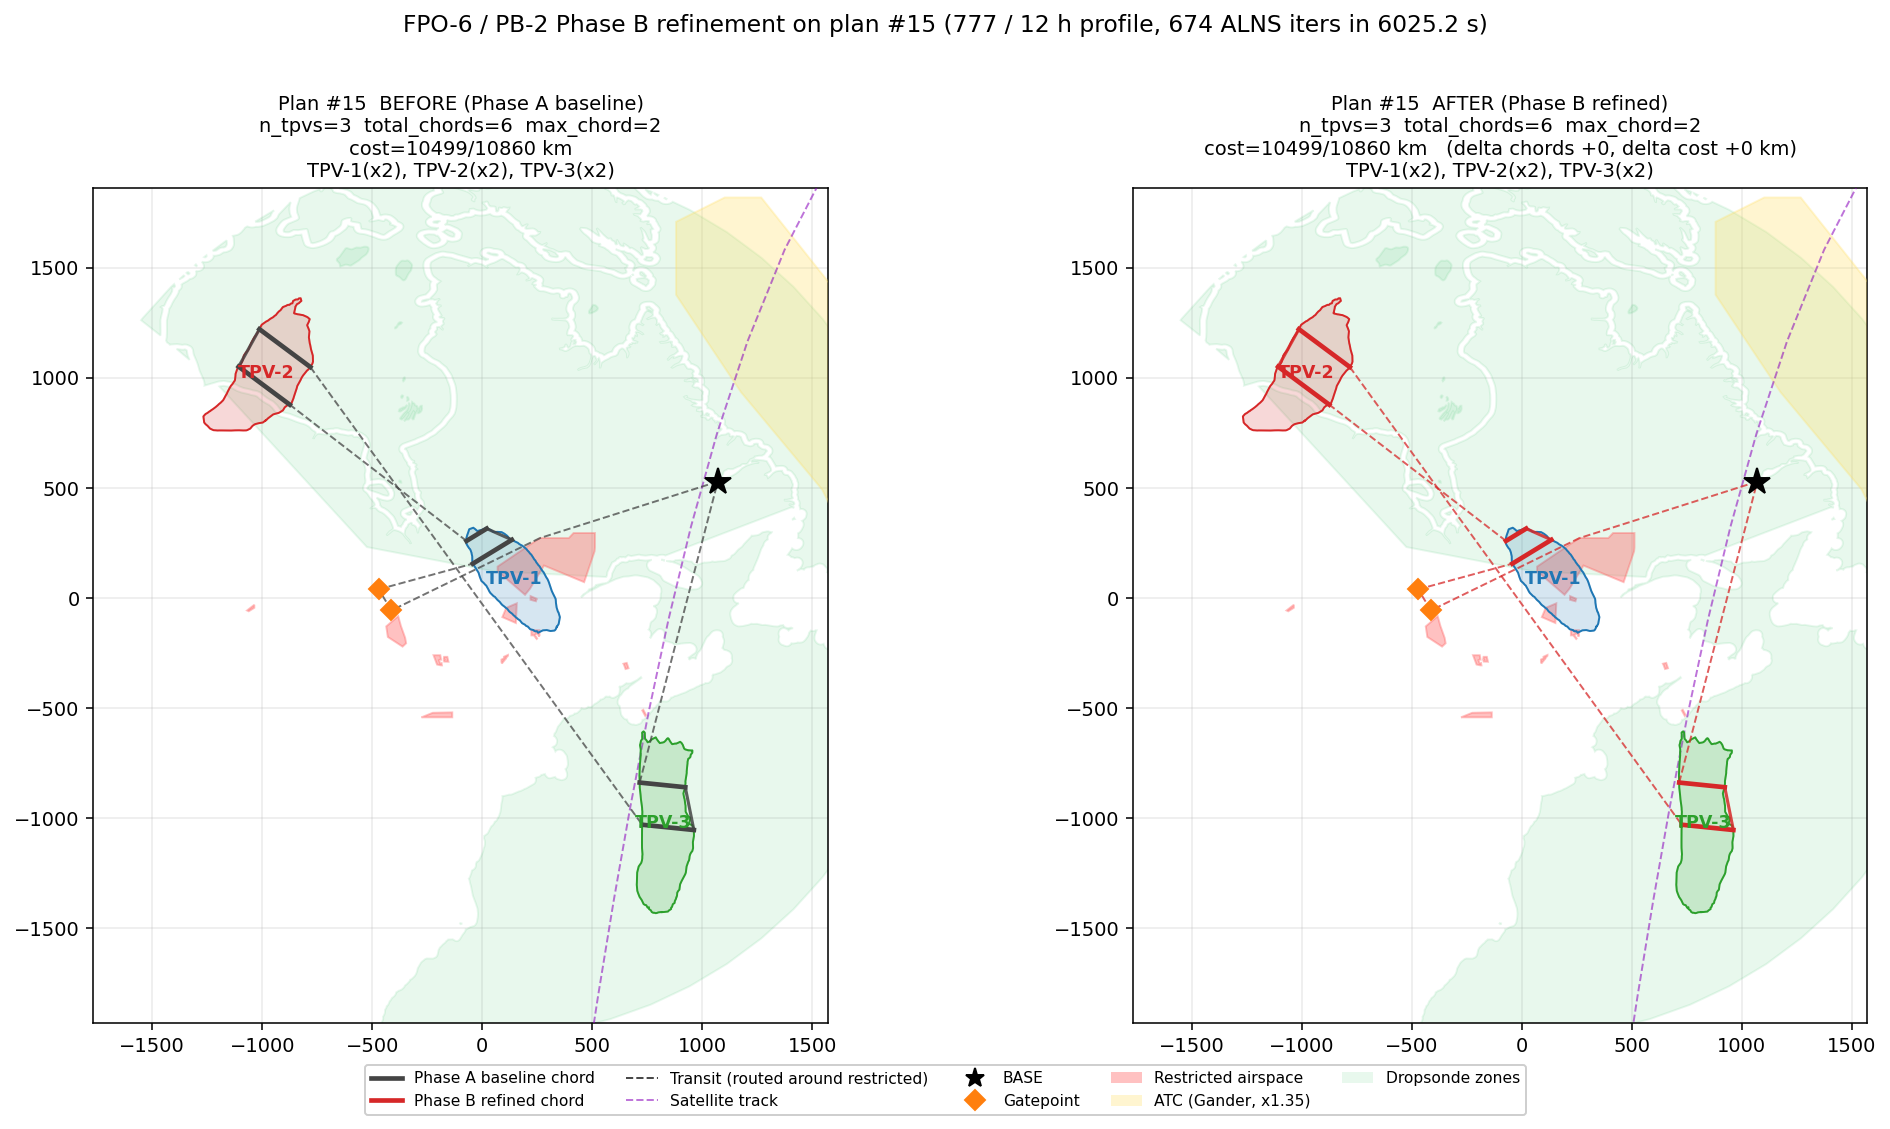
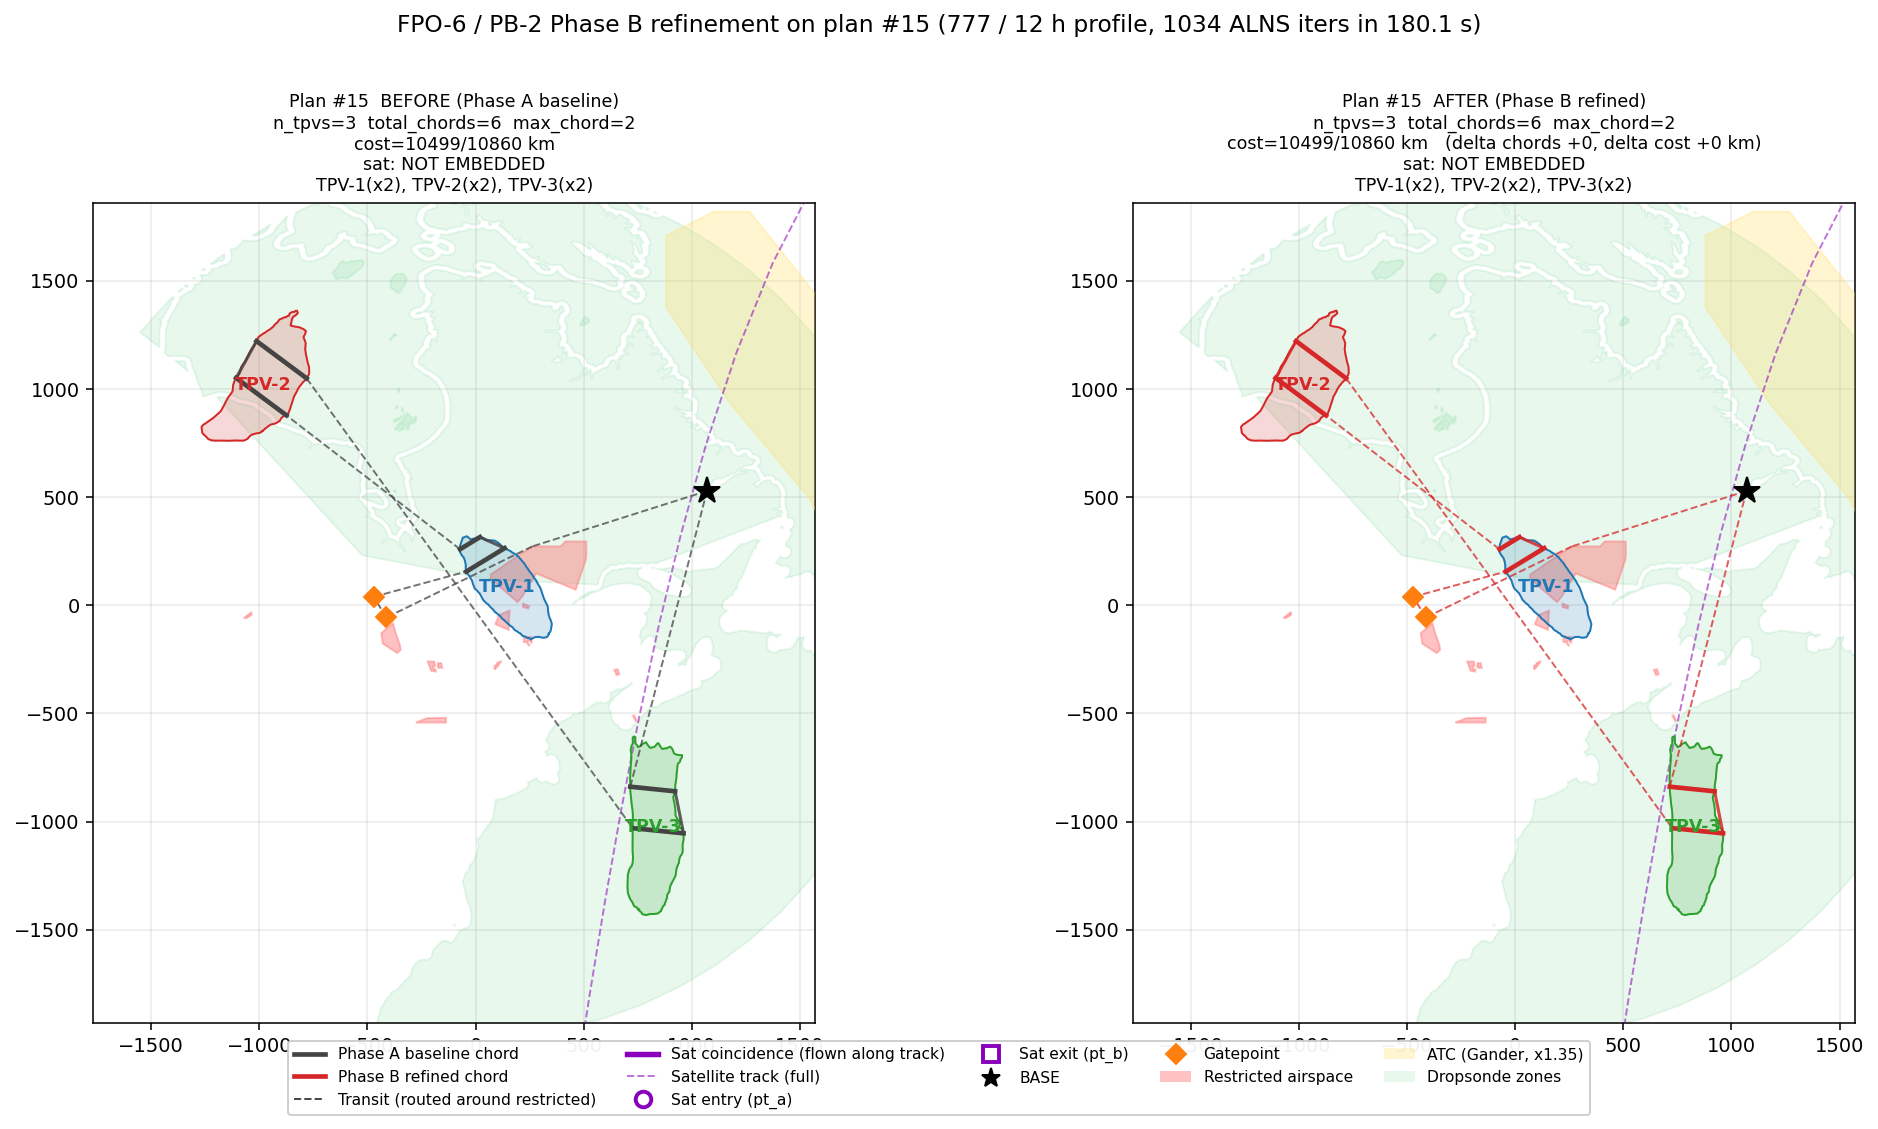
PB-3 demo v2: sat embed sort fix + 3 new before/after PNGs
Bug in embed_best_sat_arc: top-N-by-arc cap grabbed 60 longest-arc
candidates, all of whose midpoints were too far from BASE for T_dep>=0.
Fix: sort by (-arc, midpoint-distance-to-base), raise cap to 200.

Plan #1 now shows real Phase B value:
- TPV-1: 1 chord -> 6 chords (non-parallel, routed around restricted)
- Sat arc embedded: coinc=430 km (29 min) along the actual satellite
  ground track, T_dep computed from path geometry (T_sat+/-0.01h)
- Cost 5460 -> 10206 km (within 10860 budget)

Plan #15 / #18 unchanged: too tight on budget to fit a sat side-trip.
"sat: NOT EMBEDDED" in the title confirms LOCK 1 (no over-budget plans)
is doing its job, not a regression.

PNGs included so the rendered output is reviewable from GitHub.

diff --git a/multi_target_planner/phase_b_driver.py b/multi_target_planner/phase_b_driver.py
@@ -242,7 +242,7 @@ def embed_best_sat_arc(
     aircraft_speed_kmh: float = DEFAULT_AIRCRAFT_SPEED_KMH,
     t_sat_h: float = DEFAULT_T_SAT_H,
     min_spacing_km: float = 100.0,
-    max_candidates_to_try: int = 60,
+    max_candidates_to_try: int = 200,
 ) -> tuple[BuiltRoute | None, SatArcCandidate | None, int | None]:
     """Try inserting each sat candidate at each viable position; return the
     best feasible route along with the chosen candidate and insertion index.
@@ -255,9 +255,14 @@ def embed_best_sat_arc(
     if n_tpv_stops == 0:
         return None, None, None
 
-    # Order candidates by descending arc so we exit early once a longer
-    # candidate has been confirmed feasible at every position.
-    ordered = sorted(sat_candidates, key=lambda c: -c.arc_km)[:max_candidates_to_try]
+    # Order: longest arc first; within the same arc-bucket, midpoints closest
+    # to BASE first (best T_dep margin).  This guarantees we test the most
+    # promising long-arc candidates before falling back to shorter ones.
+    base_arr = np.asarray(base_km).reshape(2)
+    ordered = sorted(
+        sat_candidates,
+        key=lambda c: (-c.arc_km, float(np.linalg.norm(c.mid_xy - base_arr))),
+    )[:max_candidates_to_try]
 
     best_route: BuiltRoute | None = None
     best_cand: SatArcCandidate | None = None